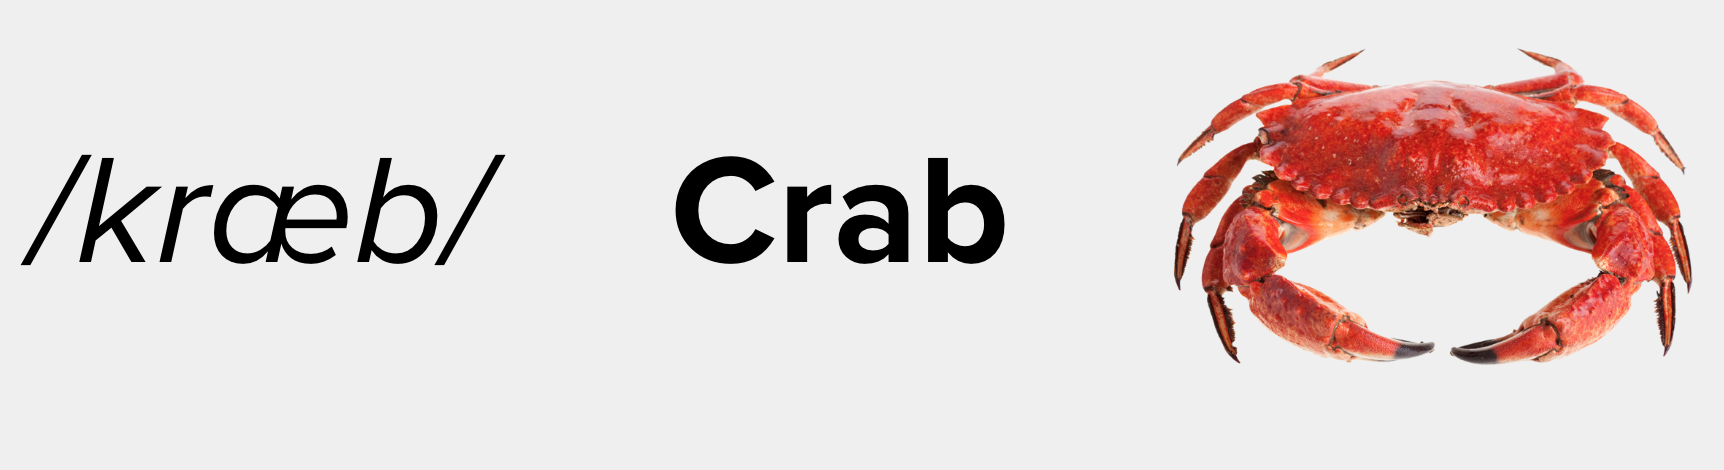
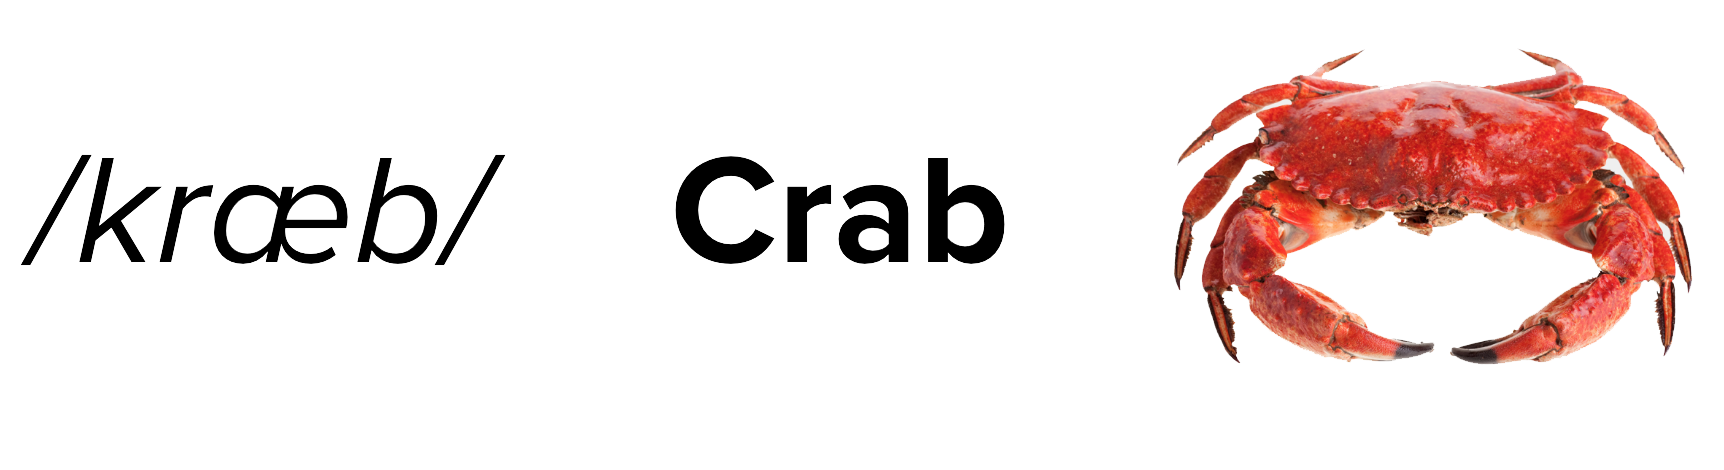
Fixes to slide images
Better images and layout and whatnot!

Changed region(s): [[0.953, 0.5957, 0.9838, 0.6255], [0.953, 0.3277, 0.9838, 0.3574]]

diff --git a/slides/tutorial/index.html b/slides/tutorial/index.html
@@ -355,7 +355,7 @@
       <!-- crab-representation slide -->
       <section id="crab-representation" data-markdown>
         <script type="text/template">
-          ![Crab symbol](images/crab-representation.png)
+          <img src="images/crab-representation.png" alt="Crab symbol" style="background:none; border:none; box-shadow:none;"/>
 
           <small>Is the symbol representative of its meaning?</small>
 
@@ -368,12 +368,12 @@
       <!-- crab-mental-lexicon slide -->
       <section id="crab-mental-lexicon" data-markdown>
         <script type="text/template">
-          ![Crab Mental Lexicon](images/crab-mental-lexicon.png)
+          <img src="images/crab-mental-lexicon.png" alt="Crab Mental Lexicon" style="background:none; border:none; box-shadow:none;"/>
 
           <small>Or is it just a mapping in a mental lexicon?</small>
 
           <aside class="notes">
-            TODO: Refactor Images on this slide
+            
           </aside>
         </script>
       </section><!-- crab-mental-lexicon slide ends -->
@@ -381,7 +381,7 @@
       <!-- arbitrary-crab slide -->
       <section id="arbitrary-crab" data-markdown>
         <script type="text/template">
-          ![Arbitrary Crab Sybmol](images/arbitrary-crab.png)
+          <img src="images/arbitrary-crab.png" alt="Arbitrary Crab Sybmol" style="background:none; border:none; box-shadow:none;"/>
 
           <small>These symbols are arbitrary</small>
 
@@ -394,7 +394,17 @@
       <!-- saussurian-linguistics slide -->
       <section id="saussurian-linguistics" data-markdown>
         <script type="text/template">
-          ![Saussurian Linguistics](images/saussurian-linguistics.png)
+          ### What is Language?
+          <img src="images/saussurian-linguistics.png" alt="Saussurian Linguistics" style="float: right; width: 40%; background:none; border:none; box-shadow:none;"/>
+          #### Linguistic symbols:
+          - Not acoustic "things"
+          - Not mental processes
+
+          #### Critical implications for:
+          - Literature
+          - Linguistics
+          - Computer Science
+          - Artificial Intelligence
 
           <aside class="notes">
             TODO: Refactor Images on this slide
@@ -473,11 +483,11 @@
       <!-- formal-language-parsing slide -->
       <section id="formal-language-parsing" data-markdown>
         <script type="text/template">
-          ![Interpreter of Formal Language](images/formal-language-parsing.png)
+          <img src="images/formal-language-parsing.png" alt="Interpreter of Formal Language" style="background:none; border:none; box-shadow:none;"/>
 
           <small>Who has written a compiler or an interpreter?</small>
           <aside class="notes">
-            TODO: fix images on this slide.
+
           </aside>
         </script>
       </section><!-- formal-language-parsing slide ends -->
@@ -485,11 +495,11 @@
       <!-- hare-cut slide -->
       <section id="hare-cut" data-markdown>
         <script type="text/template">
-          ![Syntax Errors are your Friend!](images/hare-cut.png)
+          <img src="images/hare-cut.png" alt="Syntax Errors are your Friend!" style="background:none; border:none; box-shadow:none;"/>
 
           <small>Syntax Errors are your friend! [http://bbc.in/23pSPRq](http://bbc.in/23pSPRq)</small>
           <aside class="notes">
-            TODO: get actual image instead of screenshot
+
           </aside>
         </script>
       </section><!-- hare-cut slide ends -->
@@ -509,11 +519,11 @@
       <!-- apostrotastrophe slide -->
       <section id="apostrotastrophe" data-markdown>
         <script type="text/template">
-          ![Miscommunication](images/apostrotastrophe.png)
+          <img src="images/apostrotastrophe.png" alt="Miscommunication" style="max-height: 600px; background:none; border:none; box-shadow:none;"/>
 
           <small>Most of the time. [http://bit.ly/1XlOtHv](http://bit.ly/1XlOtHv)</small>
           <aside class="notes">
-            TODO: replace with actual image and not screenshot
+
           </aside>
         </script>
       </section><!-- apostrotastrophe slide ends -->
@@ -533,11 +543,11 @@
       <!-- language-models slide -->
       <section id="language-models" data-markdown>
         <script type="text/template">
-          ![Language Models](images/language-models.png)
+          <img src="images/language-models.png" alt="Language Models" style="background:none; border:none; box-shadow:none;"/>
 
           <small>Language models are used for flexibility</small>
           <aside class="notes">
-            TODO: Replace image with actual image not screenshot
+
           </aside>
         </script>
       </section><!-- language-models ends -->
@@ -562,11 +572,11 @@
       <!-- token-relationships slide -->
       <section id="token-relationships" data-markdown>
         <script type="text/template">
-          ![Token Relationships](images/token-relationships.png)
+          <img src="images/token-relationships.png" alt="Token Relationships" style="max-height:600px; background:none; border:none; box-shadow:none;"/>
 
           <small>Language models predict relationships between tokens.</small>
           <aside class="notes">
-            TODO: Replace screenshot with actual image
+
           </aside>
         </script>
       </section><!-- token-relationships slide ends -->
@@ -671,10 +681,9 @@
 				<script type="text/template">
           ### What is Required?
 
-          ![Knowledge](images/knowledge.png)
-
           - Domain Knowledge
           - A Corpus in the Domain
+          <img src="images/knowledge.png" alt="Knowledge" style="display: block; margin: 0 auto; max-height: 500px; border: none;"/>
 
           <aside class="notes">
             TODO: Get actual image instead of screenshot
@@ -743,11 +752,10 @@
           ### Syntax
           The study of the rules for the formation of sentences.
 
-          ![Syntax Tree](images/syntax.png)
+          Major tasks: chunking, parsing, feature parsing, grammars
 
-          Major tasks:
+          <img src="images/syntax.png" alt="Syntax" style="display: block; margin: 0 auto; max-height: 500px; border: none;"/>
 
-          - chunking, parsing, feature parsing, grammars
           <aside class="notes">
             TODO: Convert image to SVG
           </aside>
@@ -758,16 +766,17 @@
       <section id="semantics" data-markdown>
 				<script type="text/template">
           ### Semantics
-          The study of meaning.
 
-          ![Mad Hatter](images/mad-hatter.png)
+          <img src="images/mad-hatter.png" alt="Mad Hatter" style="float:right; display: block; margin: 0 auto; width:40%; border: none;"/>
 
+          The study of meaning
           - I see what I eat.
           - I eat what I see.
           - He poached salmon.
 
           Major Tasks
-          - Frame extraction, creation of TMRs
+          - Frame extraction
+          - Creation of TMRs
 
           <aside class="notes">
             TODO: Convert image to SVG
@@ -872,16 +881,27 @@
 					* flowers &#8594; flower
 					* geese   &#8594; geese
 
-					Lemmatization = look up word form in a lexicon to get canonical lemma:
-					* women   &#8594; woman
-					* foxes   &#8594; fox
-					* sheep   &#8594; sheep
-
 					<aside class="notes">
 
 					</aside>
 				</script>
 			</section><!-- stemming-lemmatization slide ends -->
+
+      <!-- stemming-lemmatization-lems slide -->
+      <section id="stemming-lemmatization-lems" data-markdown>
+        <script type="text/template">
+          ### Stemming &amp; Lemmatization
+
+          Lemmatization = look up word form in a lexicon to get canonical lemma:
+          * women   &#8594; woman
+          * foxes   &#8594; fox
+          * sheep   &#8594; sheep
+
+          <aside class="notes">
+
+          </aside>
+        </script>
+      </section><!-- stemming-lemmatization-lems slide ends -->
 
 			<!-- stemming-lemmatization-2 slide -->
       <section id="stemming-lemmatization-2" data-markdown>
